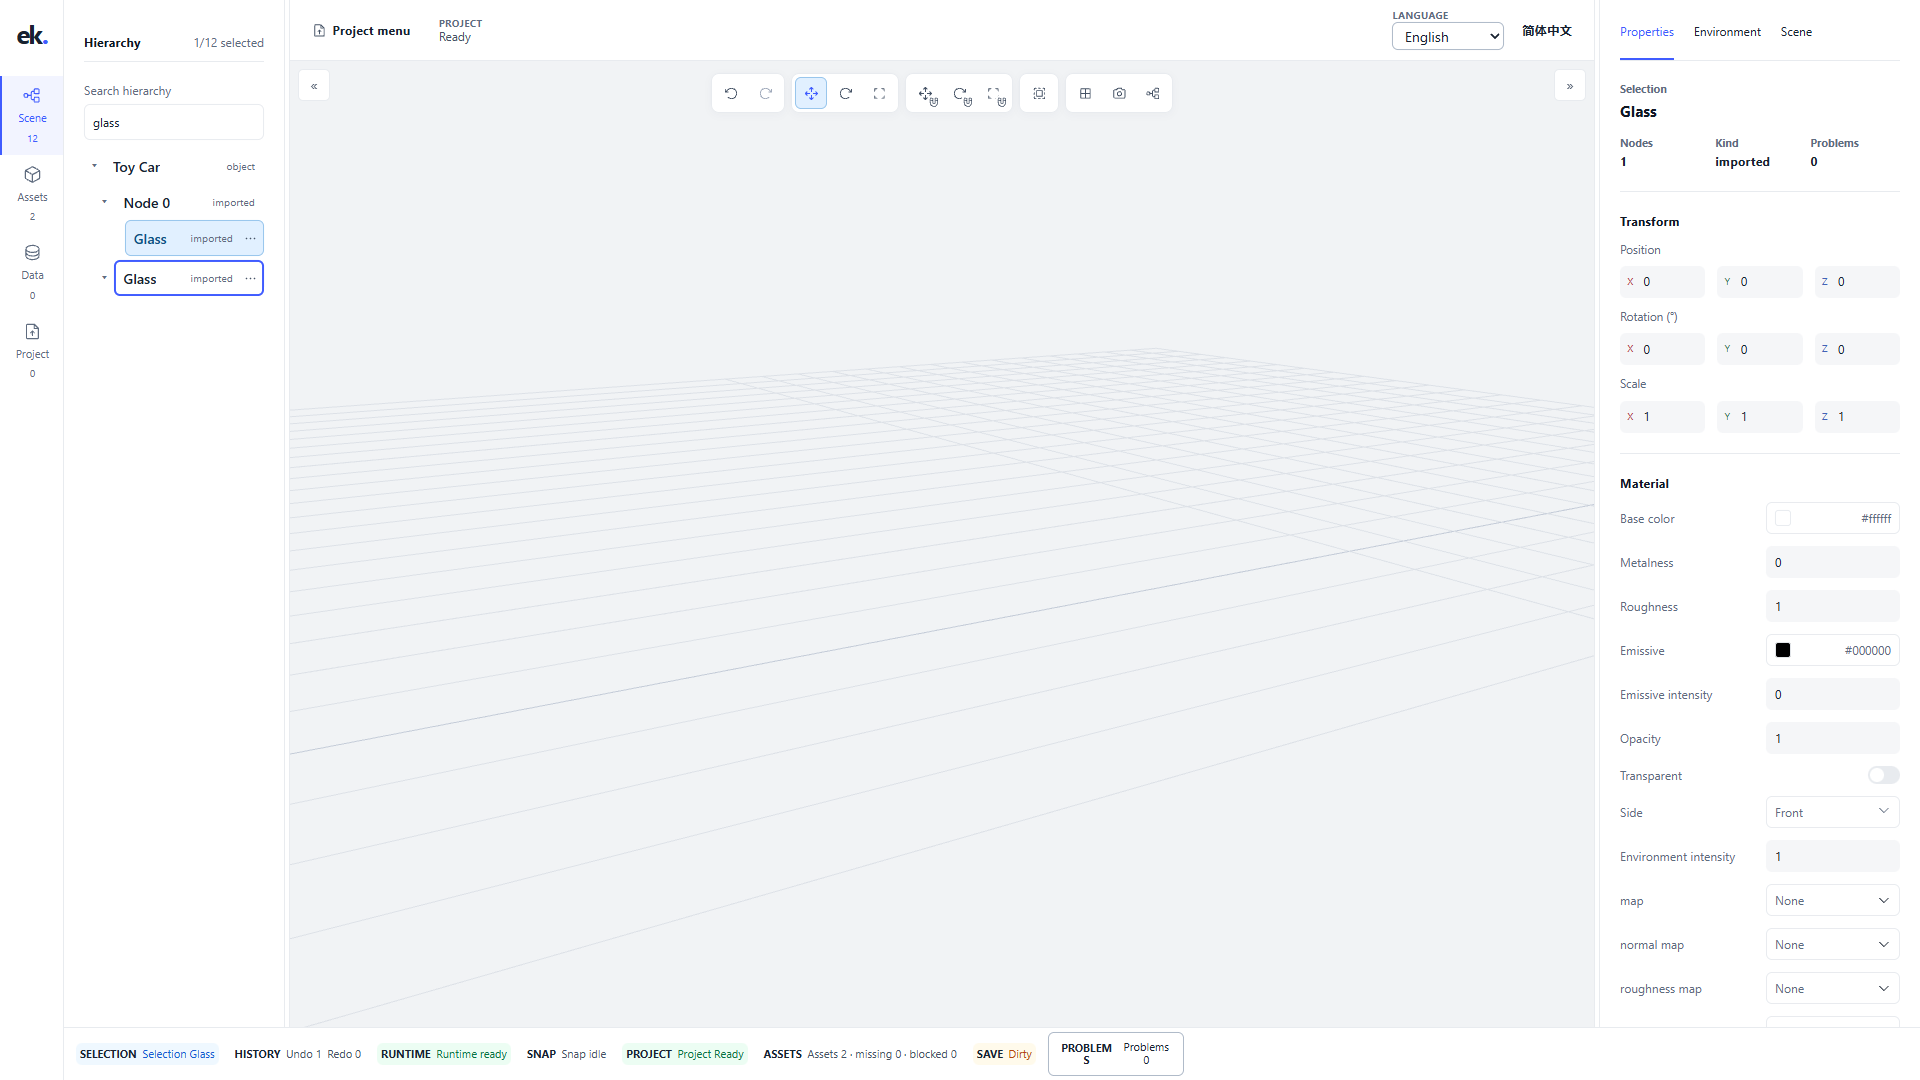
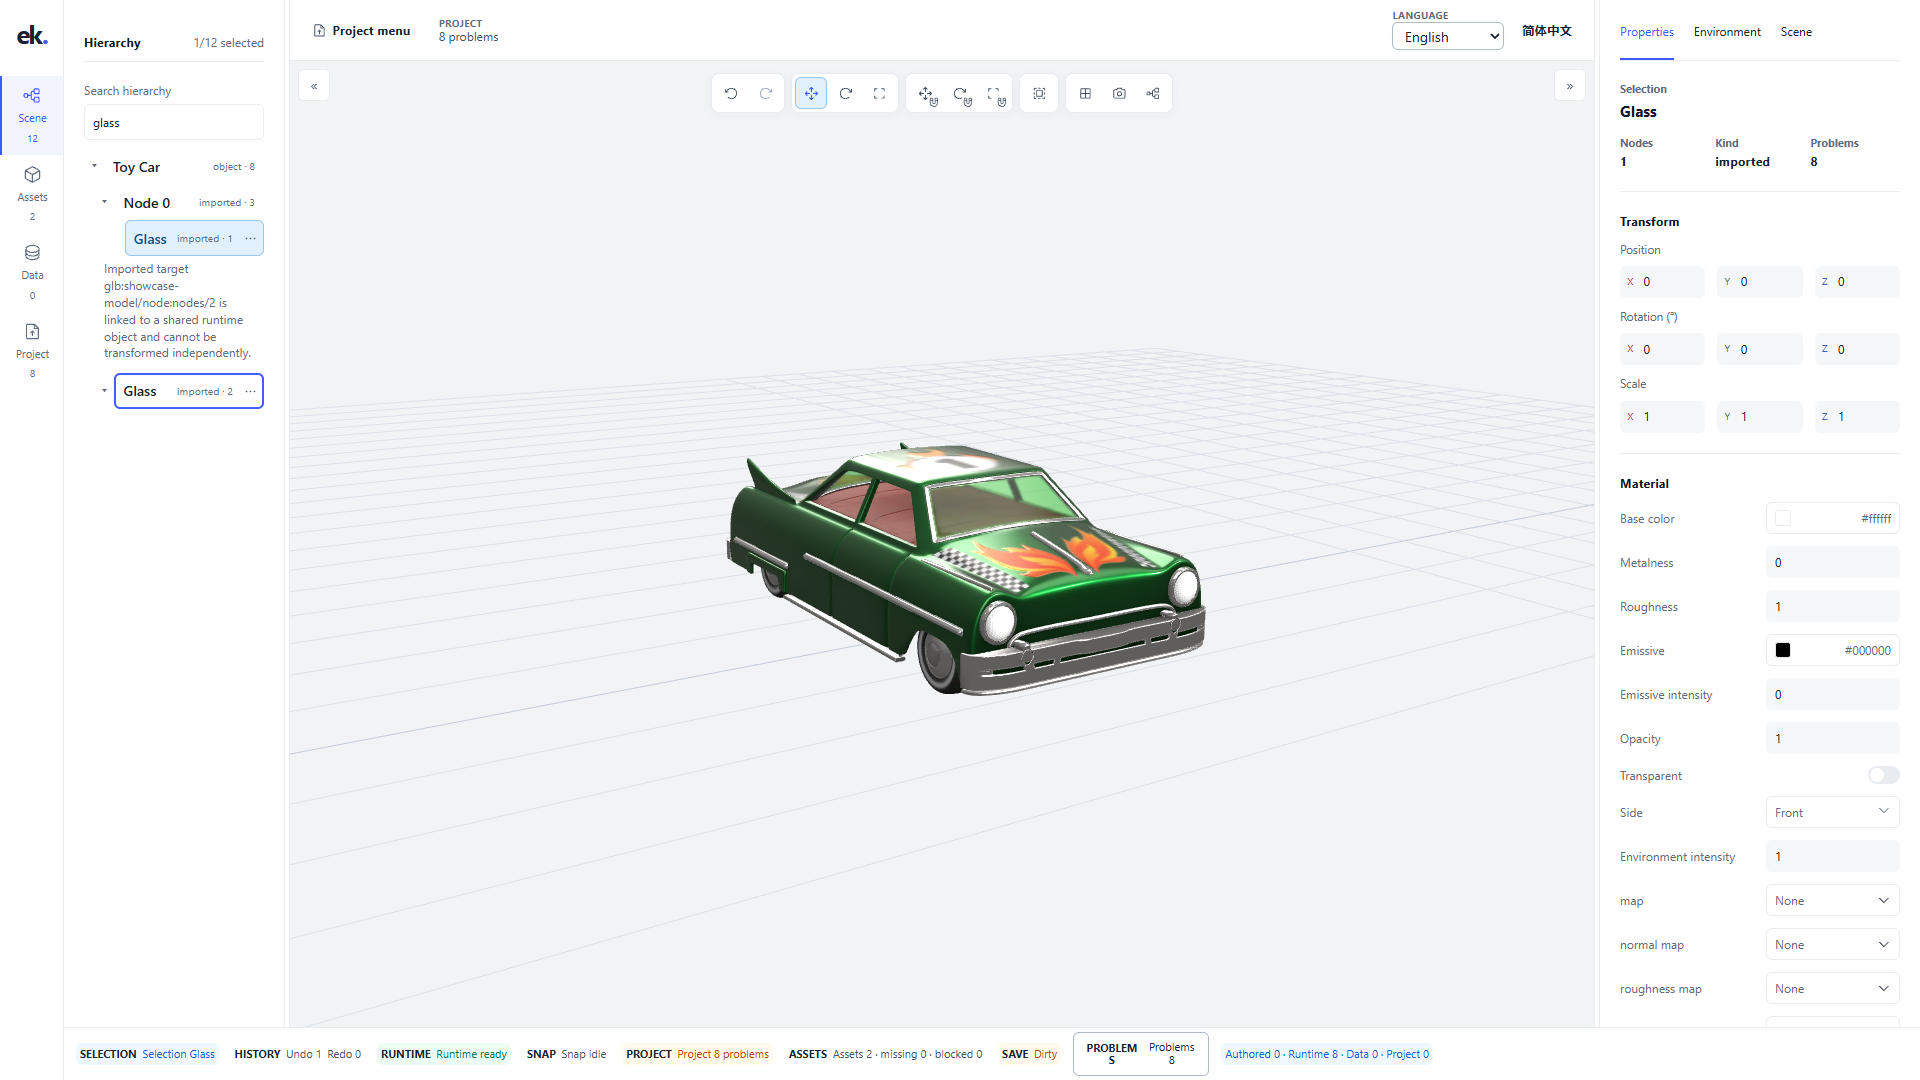
fix(vue): keep hierarchy focus in the active workbench

diff --git a/packages/vue/test/workbench-hierarchy.browser.test.ts b/packages/vue/test/workbench-hierarchy.browser.test.ts
@@ -14,6 +14,16 @@ const camera = hierarchy.getByRole("treeitem", { name: "Front view" });
 let editor: ReturnType<typeof createEditor>;
 let app: App;
 
+function mountWorkbench(container: HTMLElement, editor: ReturnType<typeof createEditor>) {
+  const app = createApp({
+    render: () => h(EditorWorkbench, {
+      editor: markRaw(editor), locale: "en", rendererFactory: testRenderer, style: { "--ek-workbench-accent": "rgb(123, 45, 67)" }
+    })
+  });
+  app.mount(container);
+  return app;
+}
+
 beforeEach(() => {
   editor = createEditor();
   editor.dispatch({ type: "create-group", nodeId: "assembly", name: "Assembly" });
@@ -21,12 +31,7 @@ beforeEach(() => {
   editor.dispatch({ type: "add-light", light: { id: "light", name: "Key light", kind: "point" } });
   editor.dispatch({ type: "create-camera-view", view: { id: "front", name: "Front view" } });
   document.body.append(host);
-  app = createApp({
-    render: () => h(EditorWorkbench, {
-      editor: markRaw(editor), locale: "en", rendererFactory: testRenderer, style: { "--ek-workbench-accent": "rgb(123, 45, 67)" }
-    })
-  });
-  app.mount(host);
+  app = mountWorkbench(host, editor);
 });
 
 afterEach(() => {
@@ -54,9 +59,10 @@ it("browses and searches the scene tree without changing the Inspector target un
   await userEvent.keyboard("{Enter}");
   await expect.element(light).toHaveAttribute("aria-selected", "true");
   await expect.element(robot).toHaveAttribute("aria-selected", "false");
+  assembly.element().focus();
   await userEvent.keyboard("{Escape}");
   await expect.element(light).toHaveAttribute("aria-selected", "true");
-  await expect.element(light).not.toHaveFocus();
+  await expect.element(assembly).not.toHaveFocus();
 
   const search = hierarchy.getByRole("searchbox", { name: "Search hierarchy" });
   await page.getByRole("button", { name: "Rotate", exact: true }).click();
@@ -86,7 +92,9 @@ it("opens row actions from the pointer and keyboard, with capability and focus o
 
   const lightActions = page.getByRole("menu", { name: "Actions for Key light" });
   light.element().focus();
-  await userEvent.keyboard("{ContextMenu}");
+  await userEvent.keyboard("{Tab}");
+  await expect.element(hierarchy.getByRole("button", { name: "Actions for Key light" })).toHaveFocus();
+  await userEvent.keyboard("{Enter}");
   await expect.element(lightActions.getByRole("menuitem", { name: "Copy" })).toHaveFocus();
   await userEvent.keyboard("{Shift>}{Tab}{/Shift}");
   await expect.element(lightActions).not.toBeInTheDocument();
@@ -108,6 +116,23 @@ it("opens row actions from the pointer and keyboard, with capability and focus o
   expect(Object.keys(editor.getSnapshot().objects)).toEqual(["robot"]);
 });
 
+it("dismisses the row menu before the Problems drawer from the hierarchy", async () => {
+  const problems = page.getByRole("button", { name: "Problem details", exact: true });
+  await problems.click();
+  const drawer = page.getByRole("region", { name: "Problem details" });
+  await expect.element(drawer).toBeVisible();
+  await light.click();
+  await userEvent.keyboard("{ContextMenu}");
+  await expect.element(page.getByRole("menu", { name: "Actions for Key light" })).toBeVisible();
+  await userEvent.keyboard("{Escape}");
+  await expect.element(light).toHaveFocus();
+  await expect.element(drawer).toBeVisible();
+  await userEvent.keyboard("{Escape}");
+  await expect.element(problems).toHaveAttribute("aria-expanded", "false");
+  await expect.element(problems).toHaveFocus();
+  await expect.element(light).toHaveAttribute("aria-selected", "true");
+});
+
 it("removes the row targeted by the menu and keeps keyboard navigation in the tree", async () => {
   await light.click();
   await hierarchy.getByRole("button", { name: "Actions for Robot" }).click();
@@ -121,6 +146,25 @@ it("removes the row targeted by the menu and keeps keyboard navigation in the tr
   await expect.element(light).toHaveFocus();
   await userEvent.keyboard("{ArrowUp}");
   await expect.element(assembly).toHaveFocus();
+});
+
+it("keeps focus in its own workbench when two hosts show the same scene", async () => {
+  const otherHost = document.createElement("div");
+  const otherEditor = createEditor({ snapshot: editor.serialize() });
+  document.body.append(otherHost);
+  const otherApp = mountWorkbench(otherHost, otherEditor);
+  try {
+    const trees = page.getByRole("tree", { name: "Hierarchy" });
+    const secondTree = trees.nth(1);
+    await secondTree.getByRole("treeitem", { name: "Assembly" }).click();
+    await userEvent.keyboard("{ArrowDown}");
+    await expect.element(secondTree.getByRole("treeitem", { name: "Robot" })).toHaveFocus();
+    await expect.element(trees.first().getByRole("treeitem", { name: "Assembly" })).toHaveAttribute("aria-selected", "false");
+  } finally {
+    otherApp.unmount();
+    otherEditor.dispose();
+    otherHost.remove();
+  }
 });
 
 function testRenderer(): RendererLike {

diff --git a/packages/vue/src/components/ui/CommandMenu.vue b/packages/vue/src/components/ui/CommandMenu.vue
@@ -1,6 +1,6 @@
 <script setup lang="ts">
 import { DropdownMenuCheckboxItem, DropdownMenuContent, DropdownMenuItem, DropdownMenuLabel, DropdownMenuPortal, DropdownMenuRoot, DropdownMenuTrigger } from "reka-ui";
-import { ref, type CSSProperties } from "vue";
+import { computed, ref, type CSSProperties } from "vue";
 import WorkbenchIcon, { type WorkbenchIconName } from "../WorkbenchIcon.vue";
 import { getPortalTheme } from "./utils";
 
@@ -20,24 +20,26 @@ const props = defineProps<{
   label: string;
   triggerLabel: string;
   icon: WorkbenchIconName;
-  commands: MenuCommand[];
+  commands: MenuCommand[] | (() => MenuCommand[]);
   compact?: boolean;
   returnFocus?: () => HTMLElement | null;
+  triggerTabIndex?: number;
 }>();
 
 const open = ref(false);
 const trigger = ref<HTMLButtonElement | null>(null);
 const theme = ref<CSSProperties>({});
 const boundary = ref<Element | null>(null);
+const interactedOutside = ref(false);
+const commands = computed(() => typeof props.commands === "function" ? props.commands() : props.commands);
 let leavingByTab = false;
-let interactedOutside = false;
 
 defineExpose({ openMenu: () => changeOpen(true) });
 
 function changeOpen(value: boolean): void {
   if (value) {
     leavingByTab = false;
-    interactedOutside = false;
+    interactedOutside.value = false;
     boundary.value = trigger.value?.closest(".ek-workbench__viewport-shell") ?? null;
     theme.value = getPortalTheme(trigger.value);
     if (boundary.value && trigger.value) {
@@ -75,11 +77,7 @@ function restoreFocus(event: Event): void {
   if (leavingByTab) event.preventDefault();
   if (!props.returnFocus) return;
   event.preventDefault();
-  if (!leavingByTab && !interactedOutside) props.returnFocus()?.focus({ preventScroll: true });
-}
-
-function onInteractOutside(): void {
-  interactedOutside = true;
+  if (!leavingByTab && !interactedOutside.value) props.returnFocus()?.focus({ preventScroll: true });
 }
 
 function onMenuKeyDown(event: KeyboardEvent): void {
@@ -99,7 +97,8 @@ function onMenuKeyDown(event: KeyboardEvent): void {
     event.stopPropagation();
     leavingByTab = true;
     changeOpen(false);
-    (props.returnFocus?.() ?? trigger.value)?.focus({ preventScroll: true });
+    const previous = event.shiftKey ? props.returnFocus?.() : undefined;
+    (previous ?? trigger.value)?.focus({ preventScroll: true });
   }
 }
 </script>
@@ -109,7 +108,7 @@ function onMenuKeyDown(event: KeyboardEvent): void {
     <DropdownMenuTrigger as-child>
       <button ref="trigger" type="button" class="ek-workbench__command-button"
         :class="{ 'ek-workbench__command-button--icon': compact, 'ek-workbench__tree-more': returnFocus }"
-        :tabindex="returnFocus ? -1 : undefined" :aria-label="triggerLabel" :title="label"
+        :tabindex="triggerTabIndex" :aria-label="triggerLabel" :title="label"
         @keydown.capture="onMenuKeyDown">
         <WorkbenchIcon :name="icon" />
         <span>{{ triggerLabel }}</span>
@@ -121,7 +120,7 @@ function onMenuKeyDown(event: KeyboardEvent): void {
         :align="boundary ? 'end' : 'start'" :side-flip="!boundary"
         sticky="always" :loop="true" :style="theme" :class="{ 'ek-vue-workbench-menu--row': returnFocus }"
         @keydown.capture="onMenuKeyDown" @open-auto-focus="focusFirstCommand" @close-auto-focus="restoreFocus"
-        @interact-outside="onInteractOutside">
+        @interact-outside="interactedOutside = true">
         <DropdownMenuLabel class="ek-vue-workbench-menu__label">{{ label }}</DropdownMenuLabel>
         <component :is="command.pressed === undefined ? DropdownMenuItem : DropdownMenuCheckboxItem"
           v-for="command in commands" :key="command.key" :disabled="command.disabled"

diff --git a/packages/vue/src/components/WorkbenchHierarchy.vue b/packages/vue/src/components/WorkbenchHierarchy.vue
@@ -5,7 +5,7 @@
   </label>
   <p v-if="hierarchy.empty" class="ek-workbench__empty">{{ context.i18n.t("reactWorkbench.leftPanel.hierarchy.empty") }}</p>
   <p v-else-if="search && matches.size === 0" class="ek-workbench__empty" role="status">{{ context.i18n.t("reactWorkbench.leftPanel.hierarchy.noResults") }}</p>
-  <ul v-else class="ek-workbench__tree" role="tree" aria-multiselectable="true"
+  <ul v-else ref="tree" class="ek-workbench__tree" role="tree" aria-multiselectable="true"
     :aria-label="context.i18n.t('reactWorkbench.leftPanel.hierarchy.label')" :style="treeStyle">
     <WorkbenchNodeRow
       v-for="row in hierarchy.roots"
@@ -16,7 +16,6 @@
       :matches="matches"
       :collapsed="collapsed"
       :toggle="toggle"
-      :tree-id="treeId"
       :tab-stop="tabStop"
       :set-focus="setFocus"
       :navigate="navigate"
@@ -25,7 +24,7 @@
 </template>
 
 <script setup lang="ts">
-import { computed, nextTick, ref, useId, watch, type CSSProperties } from "vue";
+import { computed, nextTick, ref, watch, type CSSProperties } from "vue";
 import type { WorkbenchHierarchyRow } from "@ek-aiot/3d-editor-core";
 import type { ResolvedWorkbenchContext } from "../composables/use-workbench";
 import WorkbenchNodeRow from "./WorkbenchNodeRow.vue";
@@ -33,7 +32,7 @@ import WorkbenchNodeRow from "./WorkbenchNodeRow.vue";
 const props = defineProps<{ context: ResolvedWorkbenchContext }>();
 const query = ref("");
 const collapsed = ref(new Set<string>());
-const treeId = useId();
+const tree = ref<HTMLUListElement | null>(null);
 const focusId = ref<string | null>(null);
 const hierarchy = computed(() => props.context.model.hierarchy);
 const search = computed(() => query.value.trim().toLocaleLowerCase());
@@ -79,7 +78,7 @@ watch(() => JSON.stringify([props.context.selectedNodeId, props.context.selected
 watch(visibleIds, (ids) => {
   const previous = focusId.value;
   if (!previous || ids.includes(previous)) return;
-  const hadFocus = document.activeElement === document.getElementById(`${treeId}-${previous}`);
+  const hadFocus = tree.value?.querySelector<HTMLElement>("[data-tree-row-id]:focus")?.dataset.treeRowId === previous;
   const fallback = tabStop.value;
   if (hadFocus && fallback) return focusRow(fallback);
   setFocus(fallback ?? null);
@@ -105,7 +104,7 @@ function navigate(id: string, where: -1 | 1 | "first" | "last" | "parent"): void
 async function focusRow(id: string): Promise<void> {
   setFocus(id);
   await nextTick();
-  const row = document.getElementById(`${treeId}-${id}`);
+  const row = tree.value?.querySelector<HTMLElement>(`[data-tree-row-id="${CSS.escape(id)}"]`);
   row?.focus({ preventScroll: true });
   row?.scrollIntoView?.({ block: "nearest" });
 }

diff --git a/packages/vue/src/components/WorkbenchNodeRow.vue b/packages/vue/src/components/WorkbenchNodeRow.vue
@@ -13,7 +13,6 @@
       ><span aria-hidden="true">{{ expanded ? "▾" : "▸" }}</span></button>
       <span v-else class="ek-workbench__tree-toggle-space" />
       <button
-        :id="`${treeId}-${row.id}`"
         ref="selectButton"
         type="button"
         data-ek-discard-draft
@@ -26,6 +25,7 @@
         aria-haspopup="menu"
         aria-keyshortcuts="ContextMenu Shift+F10"
         :tabindex="tabStop === row.id ? 0 : -1"
+        :data-tree-row-id="row.id"
         :data-selected="row.selected ? 'true' : undefined"
         :data-severity="row.highestProblemSeverity ?? undefined"
         :title="row.label"
@@ -38,7 +38,7 @@
         <small>{{ row.kind }}{{ row.problemCount ? ` · ${row.problemCount}` : "" }}</small>
       </button>
       <CommandMenu ref="menu" :label="moreLabel" :trigger-label="moreLabel" icon="more" compact
-        :commands="commands" :return-focus="() => selectButton" />
+        :commands="() => commands" :return-focus="() => selectButton" :trigger-tab-index="tabStop === row.id ? 0 : -1" />
     </div>
     <p v-for="problem in selectedProblems" :key="problem.id" class="ek-workbench__tree-problem" :data-severity="problem.severity">
       {{ problem.detailDescriptor ? context.i18n.t(problem.detailDescriptor) : problem.detail ?? (problem.titleDescriptor ? context.i18n.t(problem.titleDescriptor) : problem.title) }}
@@ -53,7 +53,6 @@
         :matches="matches"
         :collapsed="collapsed"
         :toggle="toggle"
-        :tree-id="treeId"
         :tab-stop="tabStop"
         :set-focus="setFocus"
         :navigate="navigate"
@@ -80,9 +79,8 @@ const props = defineProps<{
   matches: ReadonlySet<string>;
   collapsed: ReadonlySet<string>;
   toggle(nodeId: string): void;
-  treeId: string;
   tabStop?: string;
-  setFocus(nodeId: string | null): void;
+  setFocus(nodeId: string): void;
   navigate(nodeId: string, where: -1 | 1 | "first" | "last" | "parent"): void;
 }>();
 
@@ -126,7 +124,7 @@ function onKeyDown(event: KeyboardEvent): void {
     menu.value?.openMenu();
     return;
   }
-  if (!["ArrowDown", "ArrowUp", "Home", "End", "ArrowRight", "ArrowLeft", "Enter", " ", "Escape"].includes(event.key)) return;
+  if (!["ArrowDown", "ArrowUp", "Home", "End", "ArrowRight", "ArrowLeft", "Enter", " "].includes(event.key)) return;
   event.preventDefault();
   event.stopPropagation();
   switch (event.key) {
@@ -142,9 +140,6 @@ function onKeyDown(event: KeyboardEvent): void {
       return props.navigate(props.row.id, "parent");
     case "Enter":
     case " ": return selectNode(event);
-    case "Escape":
-      props.setFocus(null);
-      if (event.currentTarget instanceof HTMLElement) event.currentTarget.blur();
   }
 }
 

diff --git a/packages/vue/src/components/EditorWorkbench.vue b/packages/vue/src/components/EditorWorkbench.vue
@@ -307,7 +307,7 @@ function kebabCase(value: string): string {
 function onKeyDown(event: KeyboardEvent): void {
   if (event.defaultPrevented || event.isComposing || event.keyCode === 229) return;
   // The teleported menu handles its own keys. Pointer entry can also leave focus on its trigger.
-  if (event.target instanceof Element && event.target.closest('[aria-haspopup="menu"][aria-expanded="true"]')) return;
+  if (event.target instanceof Element && event.target.closest('[aria-haspopup="menu"][data-state="open"]')) return;
   const resolution = resolveEditorShortcut({
     key: event.key,
     code: event.code,
@@ -319,6 +319,14 @@ function onKeyDown(event: KeyboardEvent): void {
   });
   if (resolution.action === "clear-selection" && statusBar.value?.dismissProblems()) {
     event.preventDefault();
+    event.stopPropagation();
+    return;
+  }
+  if (resolution.action === "clear-selection" && event.target instanceof HTMLElement
+    && event.target.matches("[data-tree-row-id], .ek-workbench__tree-more")) {
+    event.preventDefault();
+    event.stopPropagation();
+    event.target.blur();
     return;
   }
   if (!resolution.handled || !resolution.action) {

diff --git a/.scratch/workbench-shadcn-ui/issues/09-vue-hierarchy.md b/.scratch/workbench-shadcn-ui/issues/09-vue-hierarchy.md
@@ -1,13 +1,13 @@
 # 09: Vue 场景树交互对齐
 
-Status: ready-for-agent
+Status: done
 Blocked by: 08
 
 ## Context
 
 开始前阅读 [正式规格](../spec.md)，其 Implementation Decisions、Testing Decisions 与 Out of Scope 均适用本任务。参照 [任务索引](../README.md) 确认前置任务；按既定优先级执行。
 覆盖 User Stories：7–10、23–25、30。
-本任务尚未实现；ready-for-agent 表示规格可执行，不代表依赖已满足。
+2026-11-14 实现完成，验收证据见 Comments。
 
 ## What to build
 
@@ -15,11 +15,11 @@ Blocked by: 08
 
 ## Acceptance criteria
 
-- [ ] 方向键浏览/展开/折叠与 Enter 选择有效，焦点和 selection 分离。
-- [ ] 搜索、多选修饰键、祖先展开、双击聚焦及视口联动保留。
-- [ ] 更多入口、能力判断、禁用原因及菜单焦点与 React 一致。
-- [ ] 完整节点类型及 imported target 诊断保留，窄栏和长名称可用。
-- [ ] 真实工作台测试覆盖键盘、搜索、选中和节点操作，提供截图。
+- [x] 方向键浏览/展开/折叠与 Enter 选择有效，焦点和 selection 分离。
+- [x] 搜索、多选修饰键、祖先展开、双击聚焦及视口联动保留。
+- [x] 更多入口、能力判断、禁用原因及菜单焦点与 React 一致。
+- [x] 完整节点类型及 imported target 诊断保留，窄栏和长名称可用。
+- [x] 真实工作台测试覆盖键盘、搜索、选中和节点操作，提供截图。
 
 ## Validation
 
@@ -29,3 +29,19 @@ Blocked by: 08
 
 2026-11-10：用户批准任务粒度、依赖和验收边界，发布规划；实现未开始。
 
+2026-11-14：Vue 场景树支持方向键、Home、End、Enter 和 Space。浏览焦点与选择分别显示，选中节点后沿用既有 Inspector 和视口联动。「更多」按钮支持指针、Tab、ContextMenu 和 Shift+F10。行菜单复用 Reka UI 2.11.0 与 Core 节点能力判断，快捷键和菜单焦点仅存在于工作台中。复制 imported target 时以所属对象为根，保留导入子树和材质覆盖。禁用原因直接显示在对应命令下方。[Reka UI Dropdown Menu](https://reka-ui.com/docs/components/dropdown-menu)
+
+### 验证
+
+- 从 `packages/vue` 运行 `pnpm exec vitest run --root ../.. --config vitest.browser.config.ts packages/vue/test/workbench-hierarchy.browser.test.ts packages/vue/test/workbench-tools-menu.browser.test.ts`，六种 Chromium 配置共 60 项通过。合成键盘事件覆盖输入法组合态。
+- 从 `packages/vue` 运行 `pnpm exec vitest run --root ../.. --config vitest.browser.config.ts packages/react/test/proof-loop-demo.browser.test.tsx --project chromium -t 'Vue|in vue'`，10 项通过。覆盖真实 GLB、长名称、最窄侧栏、祖先展开、双击聚焦、视口选择和导出恢复。
+- 根目录 `pnpm run typecheck` 和 `pnpm run build` 通过。评审修复后，`packages/vue` 的 `pnpm run typecheck` 和 `pnpm run build` 均通过，构建脚本使用 Git Bash。`examples/vue-proof-loop` 的 `pnpm run build` 通过，保留 Vite 的大 chunk 提示。
+- 可运行示例使用 `pnpm --filter @ek-aiot/vue-proof-loop dev`。截图来自生产构建预览。
+  - [1440×900 英文节点菜单与禁用原因](../acceptance/09-vue/screens/1440x900-en.png)
+  - [1920×1080 搜索、独立焦点及导入节点诊断](../acceptance/09-vue/screens/1920x1080-en.png)
+  - [1100×800 中文节点菜单与最窄侧栏](../acceptance/09-vue/screens/1100x800-zh-CN.png)
+
+### 评审
+
+- 仓库规范评审修复多工作台的焦点串移，并收紧事件处理。Vue 的树和视口共用节点命令列表，两种框架沿用 Core 的能力判断。
+- 规格评审修复 Tab 访问「更多」和 Escape 先关行菜单、再关问题抽屉的次序。相关浏览器用例通过。
